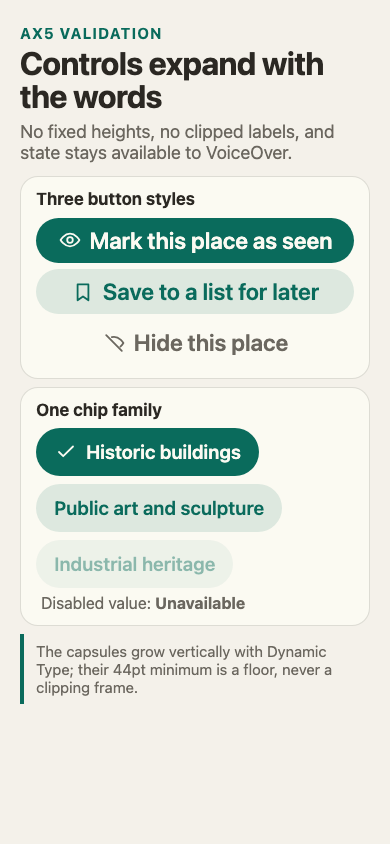
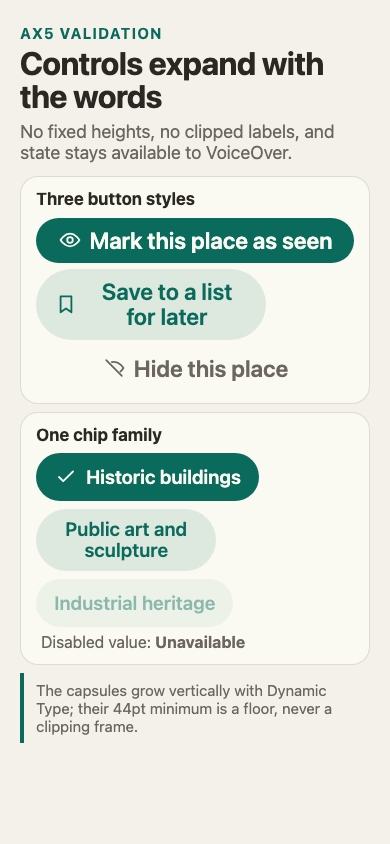
Harden material control semantics

diff --git a/ios/Tests/DesignSystemTests/ControlStylesTests.swift b/ios/Tests/DesignSystemTests/ControlStylesTests.swift
@@ -1,3 +1,5 @@
+import AppKit
+import SwiftUI
 import XCTest
 @testable import DesignSystem
 
@@ -33,11 +35,15 @@ final class ControlStylesTests: XCTestCase {
     }
 
     func testDisabledButtonsAndChipsExposeSpokenState() {
-        XCTAssertNil(MaterialFilledButtonStyle().accessibilityValue(isEnabled: true))
-        XCTAssertEqual(
-            MaterialFilledButtonStyle().accessibilityValue(isEnabled: false),
-            "Unavailable"
-        )
+        let buttonValues: [(Bool) -> String?] = [
+            MaterialFilledButtonStyle().accessibilityValue,
+            MaterialTonalButtonStyle().accessibilityValue,
+            MaterialQuietButtonStyle().accessibilityValue,
+        ]
+        for value in buttonValues {
+            XCTAssertNil(value(true))
+            XCTAssertEqual(value(false), "Unavailable")
+        }
 
         XCTAssertEqual(
             MaterialChipState.active.accessibilityValue(isEnabled: true),
@@ -55,6 +61,117 @@ final class ControlStylesTests: XCTestCase {
             MaterialChipState.available.accessibilityValue(isEnabled: false),
             "Unavailable"
         )
+    }
+
+    func testMaterialChipKeepsTheNativeButtonAccessibilityElement() throws {
+        let source = try controlStylesSource()
+        let chipSource = try XCTUnwrap(
+            source
+                .components(separatedBy: "public struct MaterialChip: View")
+                .last?
+                .components(separatedBy: "private struct MaterialButtonStyleBody")
+                .first
+        )
+
+        XCTAssertTrue(chipSource.contains("Button(action: action)"))
+        XCTAssertTrue(chipSource.contains(".accessibilityLabel"))
+        XCTAssertTrue(chipSource.contains(".accessibilityValue"))
+        XCTAssertFalse(
+            chipSource.contains(".accessibilityElement(children: .ignore)"),
+            "Replacing the native Button element discards semantics that the chip should inherit."
+        )
+    }
+
+    func testMaterialChipRendersActiveFilledAndAvailableTonal() throws {
+        let active = try renderChip(state: .active)
+        let available = try renderChip(state: .available)
+
+        let activeAccentPixels = solidAccentPixelCount(in: active)
+        let availableAccentPixels = solidAccentPixelCount(in: available)
+
+        XCTAssertGreaterThan(activeAccentPixels, availableAccentPixels + 500)
+    }
+
+    func testMaterialControlsGrowVerticallyForMultilineLabels() throws {
+        let shortChip = try renderedHeight(
+            MaterialChip("Saved", state: .active, action: {})
+                .frame(width: 108)
+        )
+        let longChip = try renderedHeight(
+            MaterialChip(
+                "Saved for a long weekend adventure in the mountains",
+                state: .active,
+                action: {}
+            )
+            .frame(width: 108)
+        )
+
+        XCTAssertGreaterThan(longChip, shortChip + 10)
+
+        let shortButton = try renderedHeight(
+            Button("Save", action: {})
+                .buttonStyle(MaterialFilledButtonStyle())
+                .frame(width: 108)
+        )
+        let longButton = try renderedHeight(
+            Button(
+                "Save for a long weekend adventure in the mountains",
+                action: {}
+            )
+                .buttonStyle(MaterialFilledButtonStyle())
+                .frame(width: 108)
+        )
+
+        XCTAssertGreaterThan(longButton, shortButton + 10)
+    }
+
+    private func renderChip(state: MaterialChipState) throws -> CGImage {
+        try render(
+            MaterialChip("Trail", state: state, action: {})
+                .padding(8)
+                .background(Color.white)
+        )
+    }
+
+    private func render<Content: View>(_ content: Content) throws -> CGImage {
+        let renderer = ImageRenderer(content: content)
+        renderer.scale = 1
+        return try XCTUnwrap(renderer.cgImage)
+    }
+
+    private func renderedHeight<Content: View>(_ content: Content) throws -> Int {
+        try render(content).height
+    }
+
+    private func solidAccentPixelCount(in image: CGImage) -> Int {
+        let bitmap = NSBitmapImageRep(cgImage: image)
+
+        return (0..<bitmap.pixelsHigh).reduce(into: 0) { count, y in
+            for x in 0..<bitmap.pixelsWide {
+                guard
+                    let color = bitmap.colorAt(x: x, y: y)?
+                        .usingColorSpace(.sRGB)
+                else {
+                    continue
+                }
+                if color.greenComponent > color.redComponent + 0.2,
+                   color.blueComponent > color.redComponent + 0.2,
+                   color.greenComponent > color.blueComponent + 0.03,
+                   color.alphaComponent > 0.98 {
+                    count += 1
+                }
+            }
+        }
+    }
+
+    private func controlStylesSource() throws -> String {
+        let testsDirectory = URL(fileURLWithPath: #filePath)
+            .deletingLastPathComponent()
+            .deletingLastPathComponent()
+        let sourceURL = testsDirectory
+            .deletingLastPathComponent()
+            .appendingPathComponent("Sources/DesignSystem/ControlStyles.swift")
+        return try String(contentsOf: sourceURL, encoding: .utf8)
     }
 
     private func color(

diff --git a/ios/Sources/DesignSystem/ControlStyles.swift b/ios/Sources/DesignSystem/ControlStyles.swift
@@ -114,17 +114,21 @@ public enum MaterialChipState: Hashable, Sendable {
     case active
     case available
 
+    var style: MaterialChipStyle {
+        switch self {
+        case .active:
+            .filled
+        case .available:
+            .tonal
+        }
+    }
+
     var appearance: MaterialControlAppearance {
         appearance(theme: .snow)
     }
 
     func appearance(theme: MaterialTheme) -> MaterialControlAppearance {
-        switch self {
-        case .active:
-            .filled(tokens: theme.tokens)
-        case .available:
-            .tonal(tokens: theme.tokens)
-        }
+        style.appearance(theme: theme)
     }
 
     func accessibilityValue(isEnabled: Bool) -> String {
@@ -170,9 +174,6 @@ public struct MaterialChip: View {
 
     public var body: some View {
         styledButton
-            .accessibilityElement(children: .ignore)
-            .accessibilityLabel(Text(verbatim: title))
-            .accessibilityValue(Text(verbatim: state.accessibilityValue(isEnabled: isEnabled)))
     }
 
     @ViewBuilder
@@ -190,12 +191,30 @@ public struct MaterialChip: View {
                     .fixedSize(horizontal: false, vertical: true)
             }
         }
+        .accessibilityLabel(Text(verbatim: title))
+        .accessibilityValue(
+            Text(verbatim: state.accessibilityValue(isEnabled: isEnabled))
+        )
 
-        switch state {
-        case .active:
+        switch state.style {
+        case .filled:
             button.buttonStyle(MaterialFilledButtonStyle(theme: theme))
-        case .available:
+        case .tonal:
             button.buttonStyle(MaterialTonalButtonStyle(theme: theme))
+        }
+    }
+}
+
+enum MaterialChipStyle: Equatable, Sendable {
+    case filled
+    case tonal
+
+    func appearance(theme: MaterialTheme) -> MaterialControlAppearance {
+        switch self {
+        case .filled:
+            .filled(tokens: theme.tokens)
+        case .tonal:
+            .tonal(tokens: theme.tokens)
         }
     }
 }

diff --git a/docs/design/design-system/t1.3-buttons-chips-ax.html b/docs/design/design-system/t1.3-buttons-chips-ax.html
@@ -46,6 +46,10 @@
     text-align: center;
   }
   .control { font-size: 23px; }
+  .control.wrap-proof {
+    width: 230px;
+    justify-self: start;
+  }
   .control svg, .chip svg {
     width: 24px;
     height: 24px;
@@ -66,6 +70,7 @@
     font-size: 19px;
     white-space: normal;
   }
+  .chip.wrap-proof { width: 180px; }
   .disabled { opacity: 0.46; }
   .spoken { margin: 6px 5px 0; color: var(--muted); font-size: 16px; line-height: 1.2; }
   .proof {
@@ -91,7 +96,7 @@
         <svg viewBox="0 0 24 24" aria-hidden="true"><path d="M2.6 12S6.2 5.6 12 5.6 21.4 12 21.4 12 17.8 18.4 12 18.4 2.6 12 2.6 12z"/><circle cx="12" cy="12" r="2.8"/></svg>
         Mark this place as seen
       </div>
-      <div class="control tonal">
+      <div class="control tonal wrap-proof">
         <svg viewBox="0 0 24 24" aria-hidden="true"><path d="M6.6 4.4h10.8v15.9L12 16.4l-5.4 3.9z"/></svg>
         Save to a list for later
       </div>
@@ -109,7 +114,7 @@
         <svg viewBox="0 0 24 24" aria-hidden="true"><path d="m5 12 4.2 4.2L19 6.5"/></svg>
         Historic buildings
       </div>
-      <div class="chip tonal">Public art and sculpture</div>
+      <div class="chip tonal wrap-proof">Public art and sculpture</div>
       <div class="chip tonal disabled">Industrial heritage</div>
     </div>
     <p class="spoken">Disabled value: <strong>Unavailable</strong></p>

diff --git a/docs/superpowers/phases/phase-1/tasks.md b/docs/superpowers/phases/phase-1/tasks.md
@@ -282,7 +282,7 @@ AC6 needs **no About-screen code change**. `AboutView` (`MapScreen.swift:7968`) 
 - **Depends on:** T1.1
 - **Owner:** codex3
 - **Review tier:** `sourcery` + `opus`
-- **Status:** tests green — `swift test`: 400 tests, 0 failures
+- **Status:** tests green — `swift test`: 403 tests, 0 failures; adversarial review remediated
 - **Contracts produced:** the three `ButtonStyle`s and the chip family. **T1.6, T1.7, T1.8, T1.9 and T1.10 all consume them** — fix the names and the tone/state API here and name them in the PR body.
 - **Contracts consumed:** T1.1's token sheet.
 - **Gate:** the components are in a SwiftPM target, so their tests are host-only (`cd ios && swift test`). You changed no app-target file, so no fleet lock and no Release build are needed — **unless** you touch `project.yml`, in which case run `MT_RELEASE_GATE_MODE=build ./scripts/sim-lock.sh ./scripts/release-gate.sh`.
